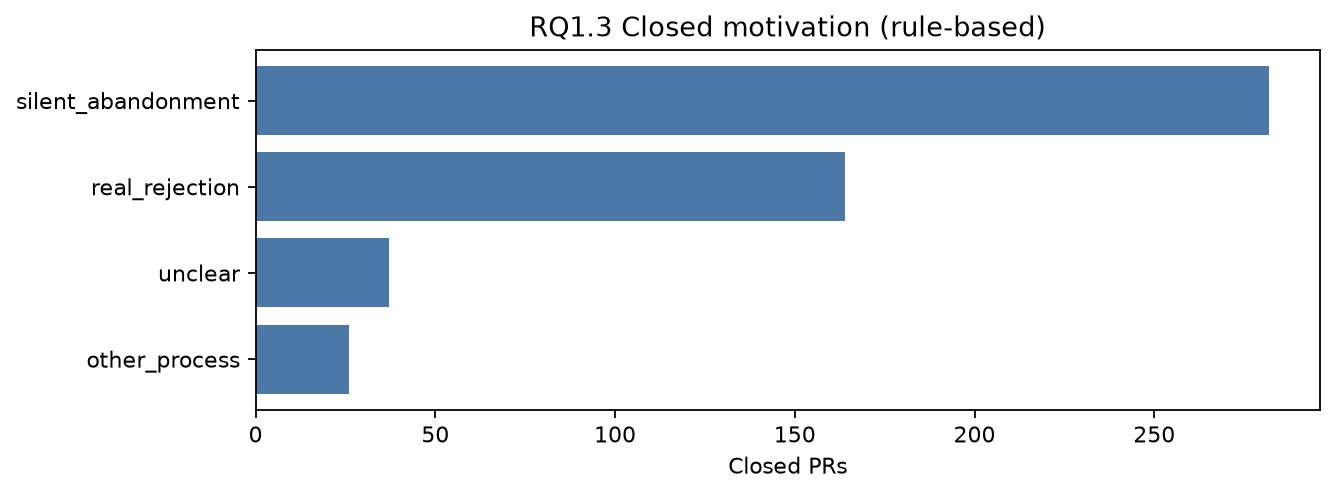
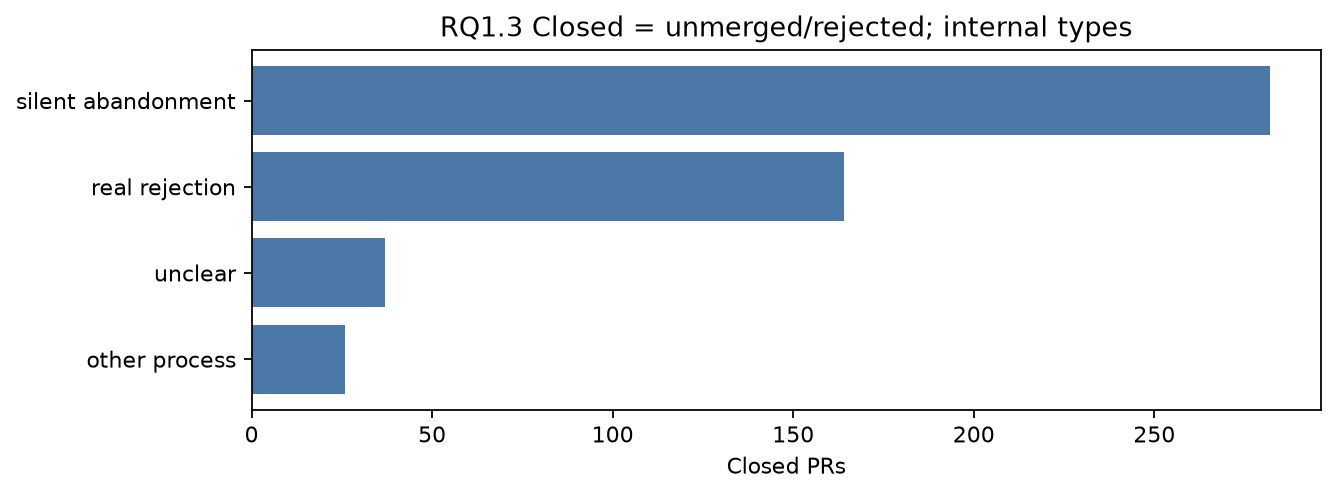
Treat closed PRs as GitHub-level rejection, then split by mechanism.
Exclude open PRs from merged vs closed contrasts while still counting them in the corpus total. RQ1.3 now reports closed subtypes with denominators for closed, terminal, and full n.

diff --git a/generate_rq_analysis.py b/generate_rq_analysis.py
@@ -382,7 +382,6 @@ def build_report(df: pd.DataFrame, records: list[dict]) -> tuple[str, dict]:
     reviewed_closed = closed[closed["is_reviewed_closed"]]
     abandon = closed[closed["close_motivation"] == "silent_abandonment"]
     abandon_sub = abandon["abandon_subtype"].value_counts()
-    waiting_n = len(open_)
 
     # ---- RQ2 ----
     life_bins = [0, 1, 24, 168, 10**9]
@@ -485,7 +484,6 @@ def build_report(df: pd.DataFrame, records: list[dict]) -> tuple[str, dict]:
     ex_abn = pick_examples(
         ranked_closed[ranked_closed["close_motivation"] == "silent_abandonment"].sort_values("_score", ascending=False)
     )
-    ex_wait = pick_examples(open_)
     ex_func = pick_examples(
         ranked_rev[ranked_rev["failure_type"] == "functional_or_correctness"].sort_values("_score", ascending=False)
     )
@@ -499,10 +497,12 @@ def build_report(df: pd.DataFrame, records: list[dict]) -> tuple[str, dict]:
         "merged": int(len(merged)),
         "closed": int(len(closed)),
         "open": int(len(open_)),
+        "terminal_n": int(len(terminal)),
+        "closed_is_rejected_at_status": True,
+        "open_excluded_from_merged_closed_contrast": True,
         "terminal_merge_rate": term_rate,
         "merged_path": path_counts.to_dict(),
         "close_motivation": mot_counts.to_dict(),
-        "waiting": waiting_n,
         "reviewed_closed_n": int(len(reviewed_closed)),
         "fast_merge_in_merged": fast_n,
         "boundary_terminal_merge": {
@@ -527,11 +527,17 @@ def build_report(df: pd.DataFrame, records: list[dict]) -> tuple[str, dict]:
         "RQ1.1 Merge rate by agent (n≥30)",
         "Merge rate (%)",
     )
+    mot_fig_label = {
+        "silent_abandonment": "silent abandonment",
+        "real_rejection": "real rejection",
+        "other_process": "other process",
+        "unclear": "unclear",
+    }
     save_barh(
         FIG_DIR / "rq1_closed_motivation.png",
-        mot_counts.index.tolist(),
+        [mot_fig_label.get(k, k) for k in mot_counts.index],
         mot_counts.values.tolist(),
-        "RQ1.3 Closed motivation (rule-based)",
+        "RQ1.3 Closed = unmerged/rejected; internal types",
         "Closed PRs",
     )
     save_barh(
@@ -596,15 +602,16 @@ def build_report(df: pd.DataFrame, records: list[dict]) -> tuple[str, dict]:
         "# RQ 分析报告：Agent 性能 Pull Request 的合入、遗弃与拒绝",
         "",
         "> 按 [`RQ_README.md`](RQ_README.md) 的 RQ1–RQ4 定稿撰写。数字由 `python3 generate_rq_analysis.py` 从 `finaldatabase/per_pr/{id}/{id}_analysis.json`（及根目录 few-shot 金标）聚合生成，可复现。",
-        f"> 样本量 **{n}**；merged **{len(merged)}**，closed **{len(closed)}**，open **{len(open_)}**。终态合并率 **{pct(len(merged), len(terminal))}**（{len(merged)}/{len(terminal)}）。",
+        f"> 全库 n=**{n}**（含 open {len(open_)}）；研究对照终态 n=**{len(terminal)}**（merged {len(merged)} / closed 被拒 {len(closed)}）。终态合并率 **{pct(len(merged), len(terminal))}**。",
         "> 结论均为**描述性关联**，不是因果推断。`outcome_reason` 等为 LLM 分析标签，不是 GitHub 官方关闭原因。",
         "",
         "## 数据与方法",
         "",
         "- **语料**：与 `FullAnalysis.md` 同一批分析 JSON，宽表字段复用 `generate_full_analysis.flatten_record`。",
-        "- **新增**：Merged 路径四分、Closed 动机三分（real rejection / silent abandonment / other+unclear），Waiting = 仍 open；在「真正被审过」的 closed 子集上再标失败类型。",
+        "- **状态口径**：`merged` = 已合入；`open` = 仍开放（**只计入全库总数 n，不进入后续 merged vs closed 对照**）；`closed` = 非 merged 且非 open，即本研究的 **GitHub 终态被拒**。",
+        "- **新增**：在 closed（被拒）内部再划分为 real rejection / silent abandonment / other_process / unclear；在「真正被审过」的 closed 子集上再标失败类型。Merged 路径四分。",
         "- **图**：`rq_analysis_figures/`。配套机器可读摘要：`rq_analysis_metrics.json`。",
-        "- **与旧报告关系**：总体合并率、Agent 分层、寿命/规模、detection_method、boundary_tag、材料评级直接复用同一数据源；Closed=Rejected 的拆分、被审子集失败类型、边界×结果对照是本报告相对 `FullAnalysis.md` 的增量。",
+        "- **与旧报告关系**：总体合并率、Agent 分层、寿命/规模、detection_method、boundary_tag、材料评级直接复用同一数据源。相对 `FullAnalysis.md` 的增量是：把 closed 明确写成终态被拒后再做拒因细分，而不是把 open 算进 closed 生态。",
         "",
         "---",
         "",
@@ -613,23 +620,34 @@ def build_report(df: pd.DataFrame, records: list[dict]) -> tuple[str, dict]:
         "### RQ1.1 总体分布与不同 Agent 的合并率表现如何",
         "",
         md_table(
-            ["状态", "数量", "占全库"],
+            ["状态", "操作定义", "数量", "占全库 n"],
             [
-                ["merged", len(merged), pct(len(merged), n)],
-                ["closed（关闭未合并）", len(closed), pct(len(closed), n)],
-                ["open（Waiting）", len(open_), pct(len(open_), n)],
+                ["merged", "已合入（`merged_at` 非空）", len(merged), pct(len(merged), n)],
+                [
+                    "closed（被拒）",
+                    "非 merged 且非 open：GitHub 终态未合入",
+                    len(closed),
+                    pct(len(closed), n),
+                ],
+                [
+                    "open",
+                    "仍开放；计入全库 n，后续对照不使用",
+                    len(open_),
+                    pct(len(open_), n),
+                ],
             ],
         ),
         "",
-        f"- 含 open 的合并率：**{pct(len(merged), n)}**。",
-        f"- 终态合并率（仅 merged+closed）：**{pct(len(merged), len(terminal))}**。",
+        f"- 全库合并率（分母含 open，n={n}）：**{pct(len(merged), n)}**。",
+        f"- **研究用终态合并率**（仅 merged vs closed，n={len(terminal)}）：**{pct(len(merged), len(terminal))}**；终态被拒率：**{pct(len(closed), len(terminal))}**。",
+        f"- 下文 RQ1.2 起的 merged / closed 对照均剔除 open。",
         "",
         "![status](rq_analysis_figures/rq1_status.png)",
         "",
-        "**按 Agent**（合并率为含 open 的全状态口径；终态合并率剔除 open）：",
+        "**按 Agent**：`PR 数` 含 open（算进该 Agent 总数）；**研究对照看终态合并率**（仅 merged+closed）。",
         "",
         md_table(
-            ["Agent", "PR 数", "merged", "closed", "open", "合并率", "终态合并率"],
+            ["Agent", "PR 数（含 open）", "merged", "closed（被拒）", "open", "全库合并率", "终态合并率"],
             agent_rows,
         ),
         "",
@@ -645,8 +663,9 @@ def build_report(df: pd.DataFrame, records: list[dict]) -> tuple[str, dict]:
             [[f"`{k}`", v, pct(v, n)] for k, v in opt_layer.items()],
         ),
         "",
-        "**小结**：约一半多的 Agent 性能 PR 最终合入，四成关闭未合并，极少数仍开放。"
-        "不同 Agent 的合入机会差一倍以上；改动主要落在应用服务、构建和前端，而不是清一色的底层 runtime。",
+        f"**小结**：全库把 open 算进总数后，合入约占 {pct(len(merged), n)}、被拒（closed）约占 {pct(len(closed), n)}、仍开放约 {pct(len(open_), n)}。"
+        f"对照研究只用终态：合并率 {pct(len(merged), len(terminal))}，被拒率 {pct(len(closed), len(terminal))}。"
+        "不同 Agent 的合入机会差一倍以上；改动主要落在应用服务、构建和前端。",
         "",
         "### RQ1.2 Merged 的真实情况如何划分",
         "",
@@ -686,53 +705,75 @@ def build_report(df: pd.DataFrame, records: list[dict]) -> tuple[str, dict]:
         "",
         "### RQ1.3 Closed 的真实情况如何划分",
         "",
-        "**Closed ≠ Rejected。** 建议把全库看成四类终态：Merged / Waiting / Silent abandonment / Real rejection。",
+        f"**口径**：凡是非 merged、非 open 的 PR，一律记为 `closed`，即 GitHub 终态上的 **未合入 / 被拒**（n={len(closed)}，占全库 {pct(len(closed), n)}，占终态 {pct(len(closed), len(terminal))}）。"
+        f"open（n={len(open_)}）只出现在 RQ1.1 的全库总数里，**不进入本小节，也不进入后文 merged vs closed 对照**。",
+        "",
+        "Closed=被拒 是状态层定义，不是「维护者写了拒绝意见」。被拒内部还要按机制再拆，否则会把沉默遗弃和技术否决混成一类。",
         "",
         md_table(
-            ["终态", "操作定义", "数量", "口径"],
+            ["Closed 内部类型（均属被拒）", "操作定义", "数量", "占 closed", "占终态", "占全库"],
             [
-                ["Merged", "已合并", len(merged), pct(len(merged), n) + " 全库"],
-                ["Waiting", "快照时仍 open", waiting_n, pct(waiting_n, n) + " 全库"],
                 [
-                    "Silent abandonment",
-                    "已关闭未合并，且无明确技术/设计否决",
-                    int(mot_counts.get("silent_abandonment", 0)),
-                    pct(int(mot_counts.get("silent_abandonment", 0)), len(closed)) + " of closed",
-                ],
-                [
-                    "Real rejection",
-                    "已关闭未合并，且有否决信号（blocking / CHANGES_REQUESTED / 技术类标签等）",
+                    "真正拒绝 real rejection",
+                    "有否决信号：blocking / CHANGES_REQUESTED / 技术或设计类标签",
                     int(mot_counts.get("real_rejection", 0)),
-                    pct(int(mot_counts.get("real_rejection", 0)), len(closed)) + " of closed",
+                    pct(int(mot_counts.get("real_rejection", 0)), len(closed)),
+                    pct(int(mot_counts.get("real_rejection", 0)), len(terminal)),
+                    pct(int(mot_counts.get("real_rejection", 0)), n),
                 ],
                 [
-                    "其他流程",
-                    "被替代、误提交撤回、重复 PR 等",
+                    "沉默遗弃 silent abandonment",
+                    "关闭但无明确技术/设计否决：stale、无审查、作者放弃、自动过期",
+                    int(mot_counts.get("silent_abandonment", 0)),
+                    pct(int(mot_counts.get("silent_abandonment", 0)), len(closed)),
+                    pct(int(mot_counts.get("silent_abandonment", 0)), len(terminal)),
+                    pct(int(mot_counts.get("silent_abandonment", 0)), n),
+                ],
+                [
+                    "其他流程 other_process",
+                    "被替代 PR、误提交撤回、重复提交等（仍未合入）",
                     int(mot_counts.get("other_process", 0)),
-                    pct(int(mot_counts.get("other_process", 0)), len(closed)) + " of closed",
+                    pct(int(mot_counts.get("other_process", 0)), len(closed)),
+                    pct(int(mot_counts.get("other_process", 0)), len(terminal)),
+                    pct(int(mot_counts.get("other_process", 0)), n),
                 ],
                 [
-                    "原因不明",
-                    "现有文本不足以归入以上三类",
+                    "原因不明 unclear",
+                    "现有文本不足以归入以上三类（仍未合入）",
                     int(mot_counts.get("unclear", 0)),
-                    pct(int(mot_counts.get("unclear", 0)), len(closed)) + " of closed",
+                    pct(int(mot_counts.get("unclear", 0)), len(closed)),
+                    pct(int(mot_counts.get("unclear", 0)), len(terminal)),
+                    pct(int(mot_counts.get("unclear", 0)), n),
+                ],
+                [
+                    "**closed 合计（被拒）**",
+                    "非 merged 且非 open",
+                    len(closed),
+                    "100%",
+                    pct(len(closed), len(terminal)),
+                    pct(len(closed), n),
                 ],
             ],
         ),
         "",
         "![closed motivation](rq_analysis_figures/rq1_closed_motivation.png)",
         "",
-        f"相对旧 `FullAnalysis.md` 的 `close_reason_group`（other 曾占 closed 的 39.9%），本规则把技术否决从「其他」里捞回来："
-        f"真正拒绝约占 closed 的 **{pct(int(mot_counts.get('real_rejection', 0)), len(closed))}**，"
-        f"沉默遗弃约占 **{pct(int(mot_counts.get('silent_abandonment', 0)), len(closed))}**。"
-        f"技术性拒绝是少数但不是「极少数」。Waiting 是 {waiting_n} 条仍开放 PR，不要塞进 Closed。",
+        f"在 **{len(closed)}** 条被拒 PR 里，沉默遗弃约占 **{pct(int(mot_counts.get('silent_abandonment', 0)), len(closed))}**，"
+        f"真正拒绝约占 **{pct(int(mot_counts.get('real_rejection', 0)), len(closed))}**。"
+        "也就是说：状态层全部算被拒；机制层里更多是没人跟、被放下，而不是审完后的技术否决。"
+        "相对旧 `FullAnalysis.md` 把大量 closed 打进 `other`（曾占 39.9%），本表把技术否决从「其他」捞回，但不明项仍单独列出，不再把 open 算进来充数。",
         "",
-        "沉默遗弃再拆：",
+        "沉默遗弃再拆（分母 = silent abandonment）：",
         "",
         md_table(
-            ["遗弃子类", "数量", "占 silent abandonment"],
+            ["遗弃子类", "数量", "占沉默遗弃", "占 closed（被拒）"],
             [
-                [abandon_label.get(k, k), int(v), pct(int(v), len(abandon) or 1)]
+                [
+                    abandon_label.get(k, k),
+                    int(v),
+                    pct(int(v), len(abandon) or 1),
+                    pct(int(v), len(closed)),
+                ]
                 for k, v in abandon_sub.items()
             ],
         )
@@ -741,7 +782,7 @@ def build_report(df: pd.DataFrame, records: list[dict]) -> tuple[str, dict]:
         "",
         f"Closed 中 `blocking=true` 仅 {blocking_closed} 条；"
         f"「真正被审过或有否决信号」的子集 {len(reviewed_closed)} 条（{pct(len(reviewed_closed), len(closed))} of closed）。"
-        "其余多数关闭发生在几乎没有审查文本的情况下。",
+        "其余多数被拒发生在几乎没有审查文本的情况下——这是遗弃，不是书面 reject，但终态仍是未合入。",
         "",
         "**真正拒绝示例：**",
         "",
@@ -751,16 +792,14 @@ def build_report(df: pd.DataFrame, records: list[dict]) -> tuple[str, dict]:
         "",
         fmt_examples(ex_abn),
         "",
-        "**Waiting（仍开放）示例：**",
-        "",
-        fmt_examples(ex_wait),
-        "",
-        "**小结**：未合并包含至少三种完全不同的故事——还在等、被放下、被否决。"
-        "用 Closed 当 Rejected 会把评审注意力失败和技术失败混在一起。",
+        "**小结**：研究对照里 closed 就是被拒。"
+        "被拒再分成真正拒绝、沉默遗弃、其他流程、原因不明四类；主导机制是沉默遗弃，真正技术/设计否决大约占被拒的三分之一。",
         "",
         "---",
         "",
         "## RQ2 成功路径与评审注意力：为何能极短周期低审查合入？为何不审？",
+        "",
+        "本节对照样本仅为终态 PR（merged vs closed）；open 不进入。",
         "",
         "### RQ2.1 合并成功的 PR 呈现出哪些行为与特征？",
         "",
@@ -1098,7 +1137,7 @@ def build_report(df: pd.DataFrame, records: list[dict]) -> tuple[str, dict]:
         "",
         "## 总结",
         "",
-        "1. **RQ1**：终态合并率约 57%，Agent 之间差距大；Merged 以低摩擦快合并为主；Closed 不能等同于 Rejected，沉默遗弃不小于真正拒绝，Waiting 是仍开放的 3%。",
+        "1. **RQ1**：全库 n 含 open；对照只用 merged vs closed。Closed 即终态被拒，内部以沉默遗弃为主，真正技术/设计拒绝约占被拒三分之一。Merged 以低摩擦快合并为主。Agent 之间终态合并率差一倍以上。",
         "2. **RQ2**：成功 PR 极短命、常无审查；放行靠读码和小补丁，不靠 profiler。无人审同时出现在合入和关闭两侧，更像注意力 / 流程问题。",
         "3. **RQ3**：真正被审的失败以正确性、设计、CI 为主；证据边界和流程边界比「又套了一层循环」更能解释合不进去；同 PR 修复少且依赖人类。",
         "4. **RQ4**：寿命、边界类型、优化层面差异清楚，材料差异方向与「多写 benchmark 就能合」相反。改进必须分快路径和难路径。",
@@ -1112,12 +1151,18 @@ def build_report(df: pd.DataFrame, records: list[dict]) -> tuple[str, dict]:
         "3. 仍无 review 或标签含 no_review / self_merge → `no_formal_review`。",
         "4. 其余 `other`。",
         "",
-        "### Closed 动机 `close_motivation`",
+        "### GitHub 状态（先于 Closed 动机）",
         "",
-        "1. 替代 PR / 误提交撤回等 → `other_process`（若同时有强技术否决则仍算拒绝）。",
-        "2. `blocking`、CHANGES_REQUESTED、技术类 `outcome_reason` / `primary_concern` / review 分桶、明确 rollback/CI fail 文本 → `real_rejection`。",
+        "- `merged`：已合入。",
+        "- `open`：仍开放；**只计入全库 n，不进入 merged vs closed 研究对照**。",
+        "- `closed`：非 merged 且非 open = 本研究的终态被拒。",
+        "",
+        "### Closed 动机 `close_motivation`（closed 的内部划分，全部仍是被拒）",
+        "",
+        "1. 替代 PR / 误提交撤回等 → `other_process`（若同时有强技术否决则仍算真正拒绝）。",
+        "2. `blocking`、CHANGES_REQUESTED、技术类 `outcome_reason` / `primary_concern` / review 分桶、明确 rollback 文本 → `real_rejection`。",
         "3. stale / 无审查 / 作者自行关闭 / 自动过期 → `silent_abandonment`。",
-        "4. 其余 `unclear`。Waiting 只用 `status=open`。",
+        "4. 其余 `unclear`。",
         "",
         "### 被审 closed 子集",
         "",
@@ -1126,7 +1171,7 @@ def build_report(df: pd.DataFrame, records: list[dict]) -> tuple[str, dict]:
         "## 附录 B 方法边界",
         "",
         "1. 标签来自 LLM 分析 JSON，建议对 real rejection / silent abandonment 各抽检数十条 `rejection_signals`。",
-        "2. Agent 差异、边界与合并率、benchmark 与合并率都是相关不是因果。",
+        "2. Agent 差异、边界与合并率、benchmark 与合并率都是相关不是因果。open 只计入全库 n。",
         "3. `fix_in_pr` 主体与 `antipattern_in_fix` 是启发式。",
         "4. 与 `FullAnalysis.md` 若有个别计数差，以本脚本现场聚合为准（分类规则已更新）。",
         "",
